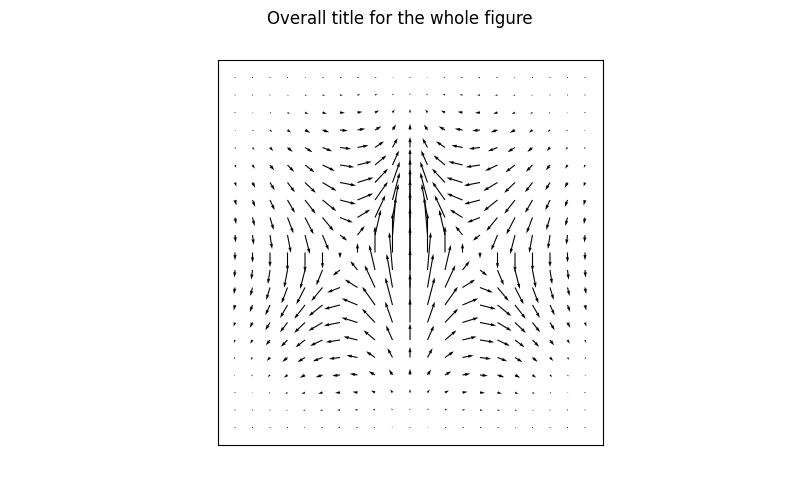
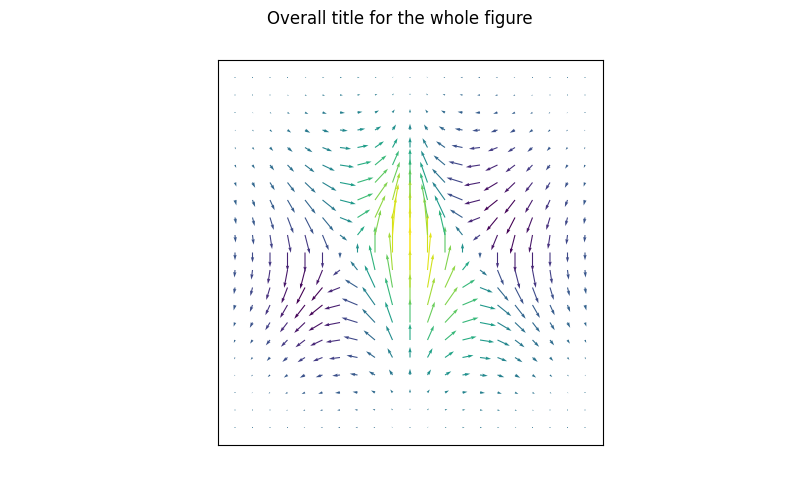
a11

diff --git a/matplotlib/silly/Yes...This Extension Works.PY b/matplotlib/silly/Yes...This Extension Works.PY
@@ -55,7 +55,10 @@ X, Y = np.meshgrid(x, y)
 Z = X * np.exp(-X**2-Y**2)
 dx, dy = np.gradient(Z)
 
-ax.quiver(X, Y, dx, dy)
+n = -2
+color = np.sqrt(((dx-n)/2)*2 + ((dy-n)/2)*2)
+
+ax.quiver(X, Y, dx, dy, color)
 ax.xaxis.set_ticks([])
 ax.yaxis.set_ticks([])
 ax.set_aspect('equal')